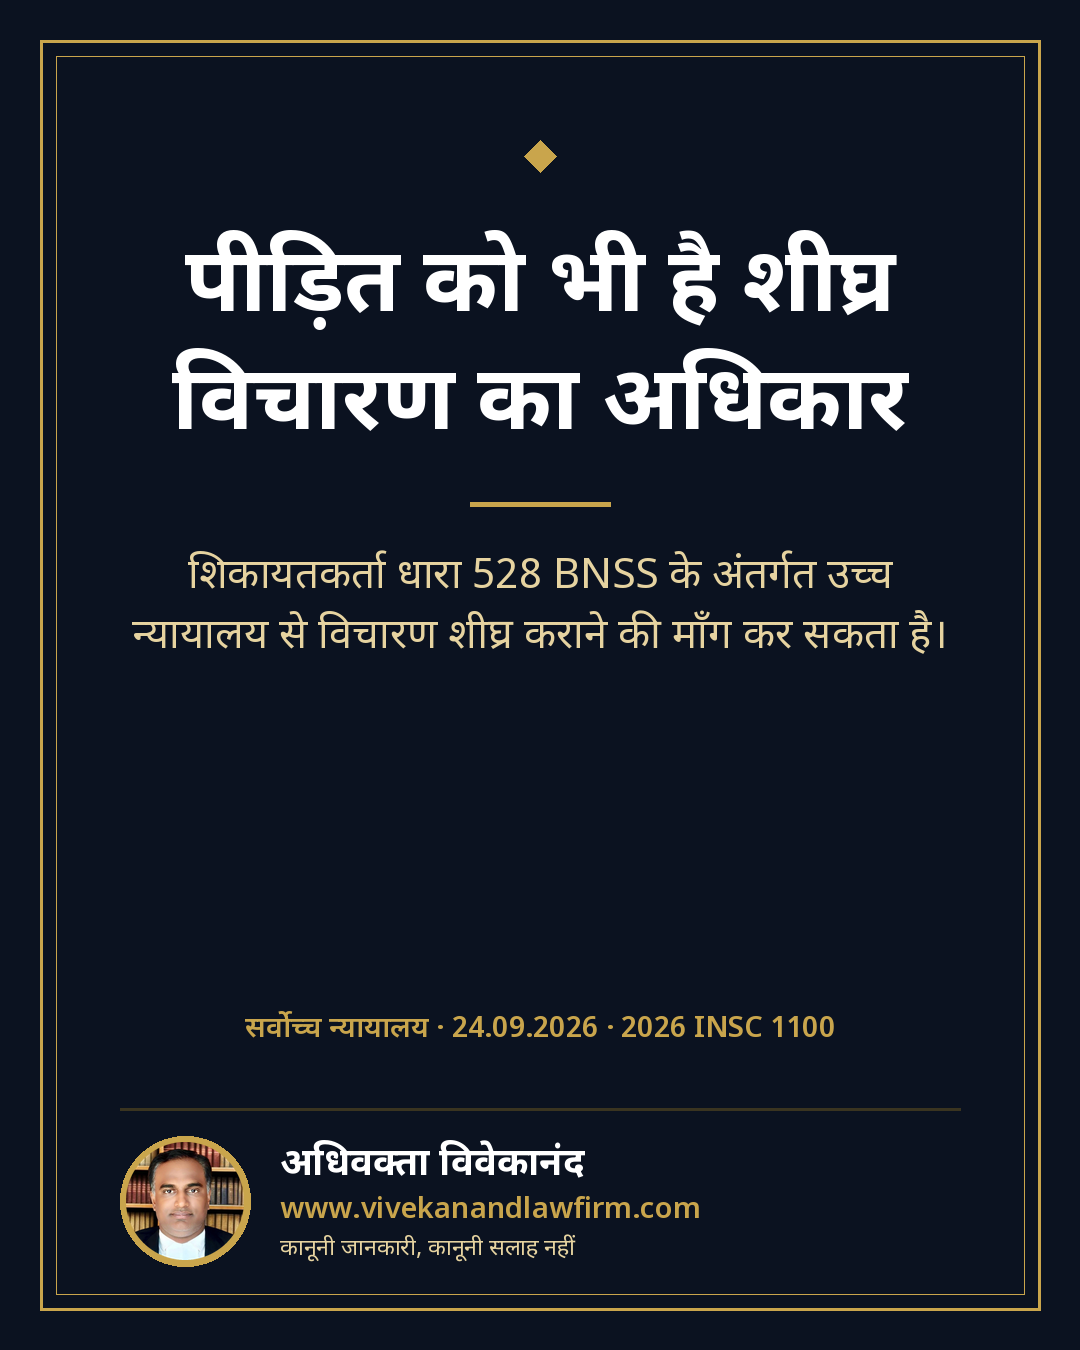
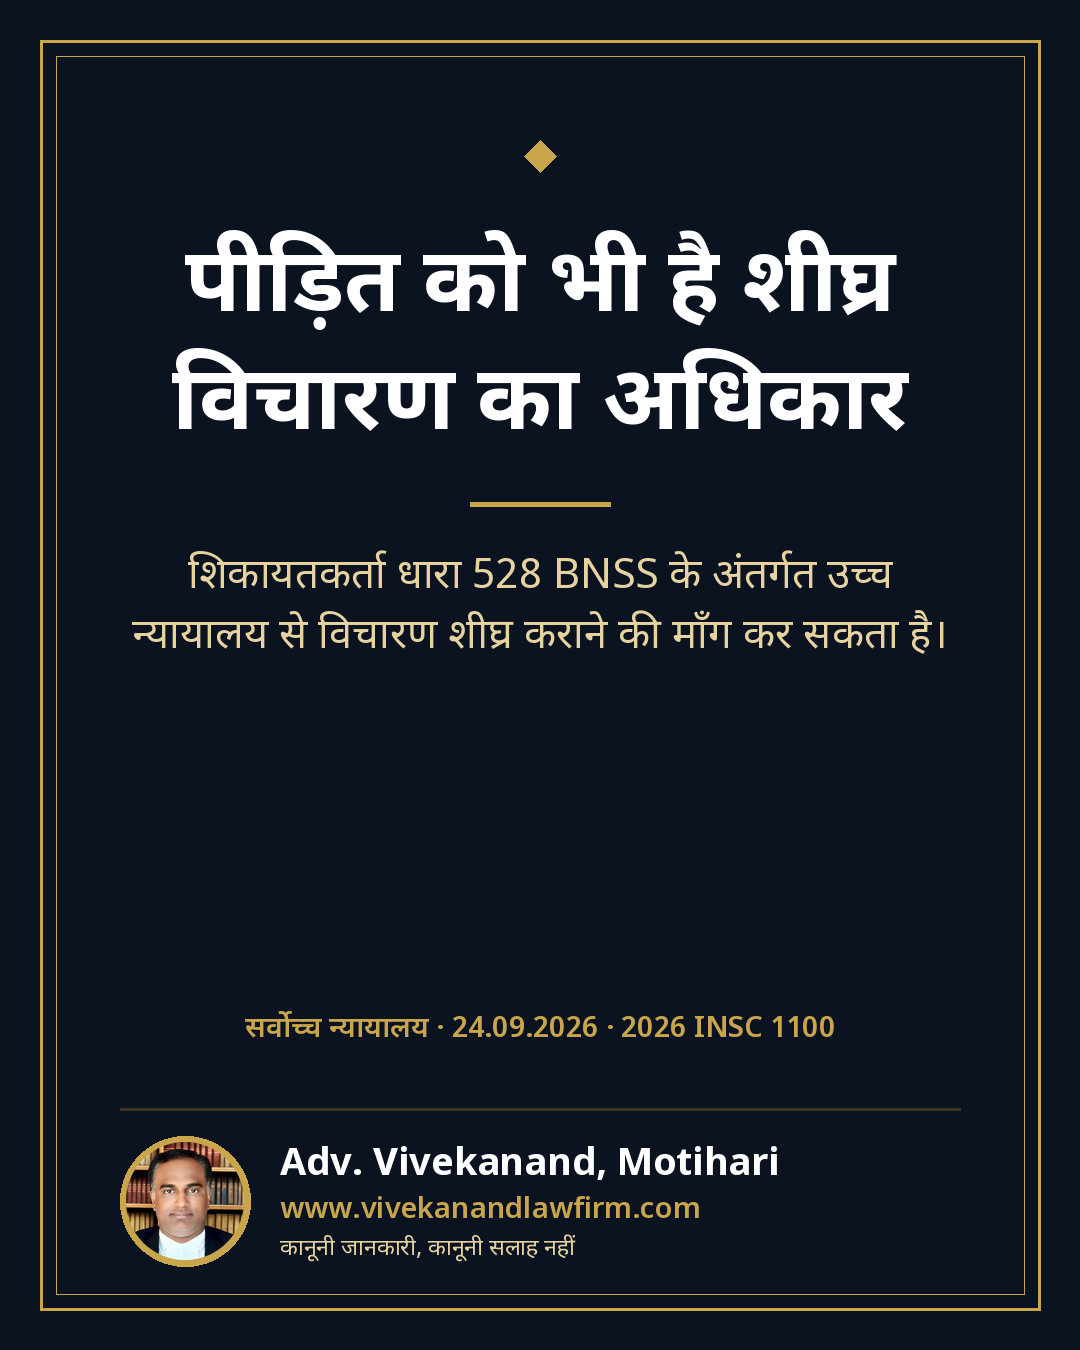
Post cards: signature name 'Adv. Vivekanand, Motihari'
Claude-Session: https://claude.ai/code/session_01Si8MYnWgMiXYfd4s2mynEU

Changed region(s): [[0.2444, 0.84, 0.7333, 0.8711]]

diff --git a/post-cards/_tools/render_card.py b/post-cards/_tools/render_card.py
@@ -92,7 +92,7 @@ def tag_in_box(draw, x, y, w, h, text, color, weight='700', size=30, align='cent
 
 
 # ---------------------------------------------------------------- signature bar
-SIG_NAME = "अधिवक्ता विवेकानंद"
+SIG_NAME = "Adv. Vivekanand, Motihari"
 SIG_WEB = "www.vivekanandlawfirm.com"
 SIG_NOTE = "कानूनी जानकारी, कानूनी सलाह नहीं"
 SIG_TOP = 1160      # top of the portrait
